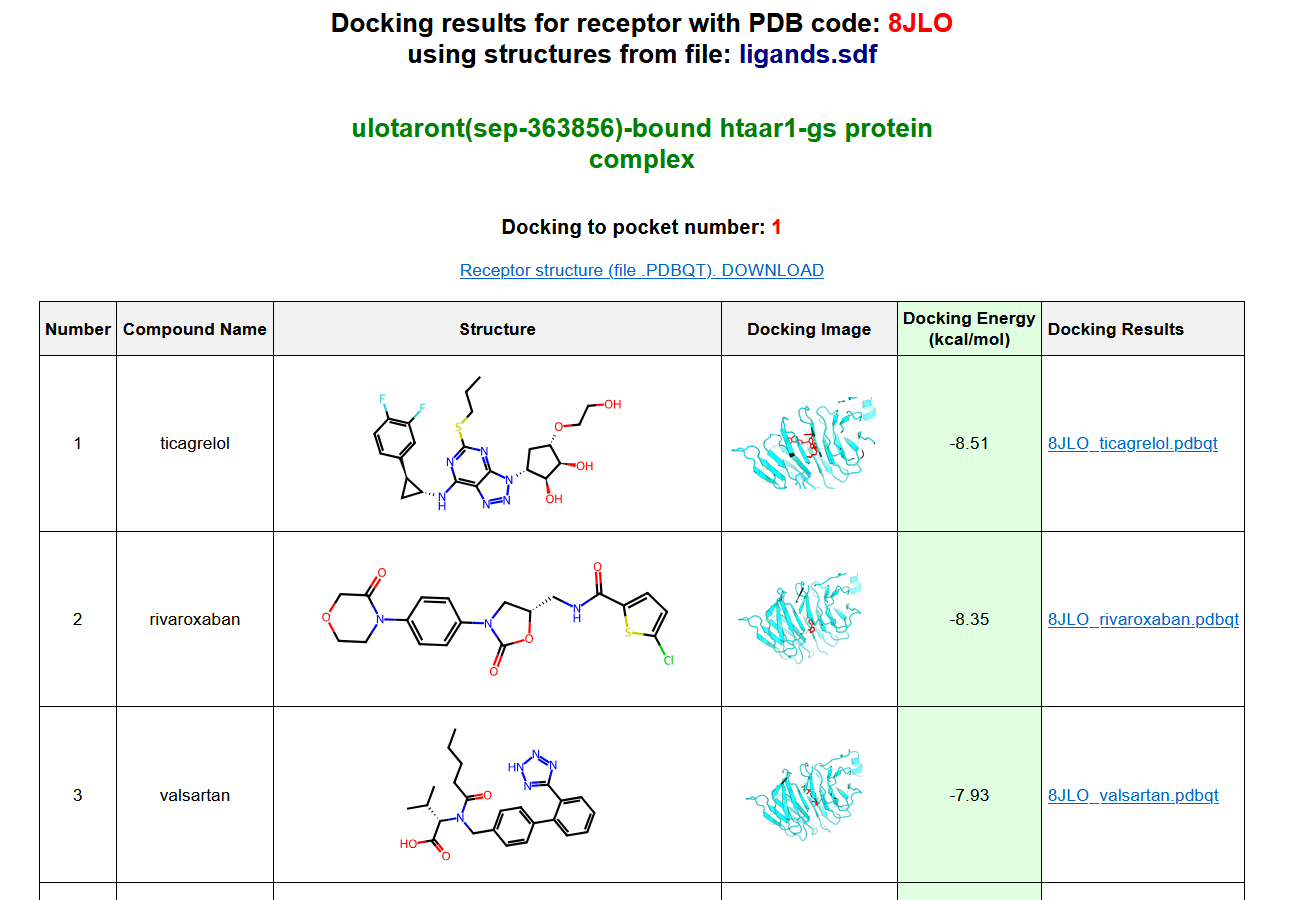
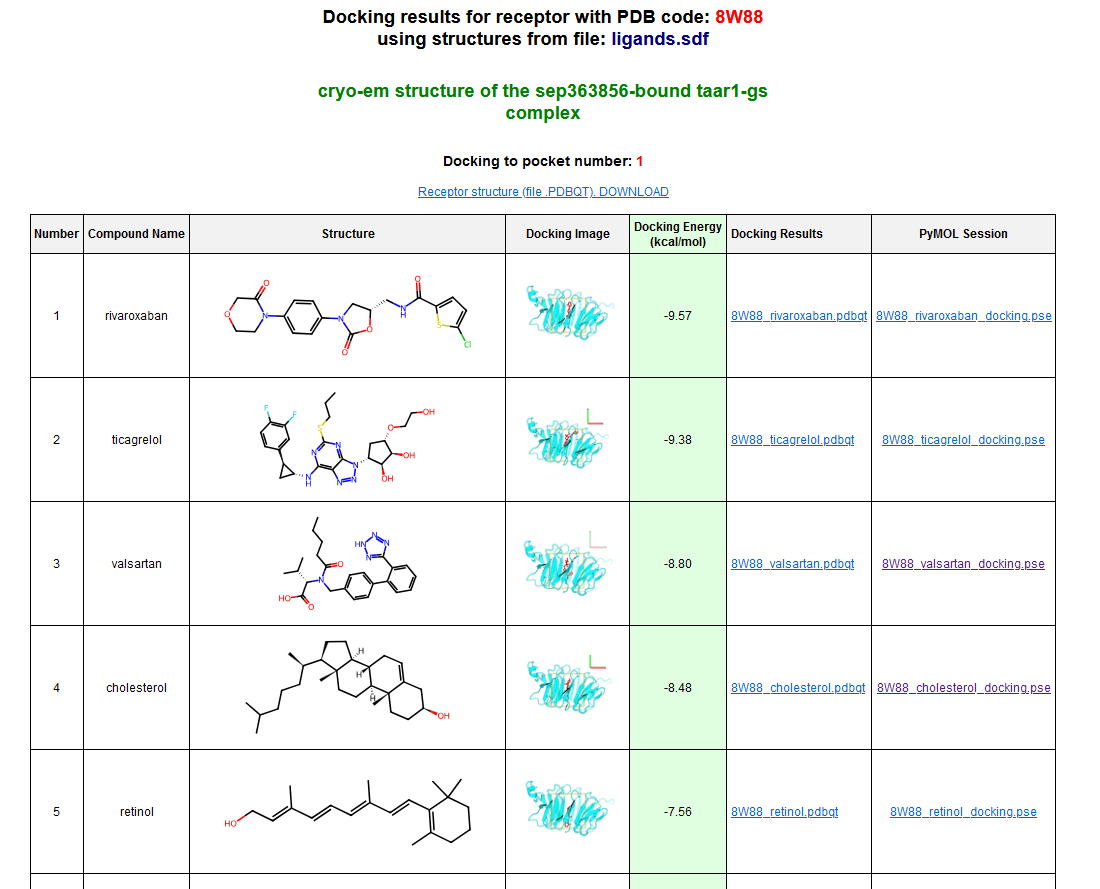
readme update

diff --git a/README.md b/README.md
@@ -3,6 +3,8 @@
 This repository provides an automated docking solution for ligands and receptor proteins using AutoDock Vina and P2Rank. It supports high-throughput docking workflows and integrates seamlessly with SLURM or can be run locally.
 
 ![Docking results visualization](img/results.png "Visualization of docking results")
+![Docking results visualization](img/grid.png "Visualization of docking results")
+![Docking results visualization](img/csv.png "Visualization of docking results")
 
 ## Technologies Used
 - **Python 3.11**: Core scripting language.
@@ -33,7 +35,7 @@ The `init_docking.py` script automates the process of docking multiple ligands t
 - The script accepts the following arguments:
   - `--pdb_ids`: A CSV file located in the `./receptors` directory, containing the PDB IDs of receptor proteins. Each ID corresponds to a unique protein structure available in the Protein Data Bank (PDB).
   - `--ligands`: A ligand file located in the `./ligands` directory. Supported formats include **SDF** and **MOL2** files, allowing flexibility in ligand input.
-  - Optional parameters like `--tol`, `--pckt`, `--exhaust`, and `--energy_range` define the docking box dimensions, pocket selection, search thoroughness, and energy range for pose scoring.
+  - Optional parameters like `--tol_x`, `--tol_y`, `--tol_z`, `--pckt`, `--exhaust`, and `--energy_range` define the docking box dimensions, pocket selection, search thoroughness, and energy range for pose scoring.
 
 - **Automatic Ligand Naming**:
   - In cases where ligands in the input files lack explicit names, the script assigns them generic names in the format `ligand_001`, `ligand_002`, etc., ensuring consistent and organized output.
@@ -62,7 +64,7 @@ The `init_docking.py` script automates the process of docking multiple ligands t
   - The predictions are saved in a folder named `01_p2rank_output` within the receptor's directory.
   - A CSV file (`<PDB_ID>_predictions.csv`) lists each pocket's coordinates, size, and scores.
 
-- The selected pocket (based on the `--pckt` argument) is used to define the docking box dimensions. This includes the center coordinates (`center_x`, `center_y`, `center_z`) and sizes (`size_x`, `size_y`, `size_z`) with an optional tolerance (`--tol`).
+- The selected pocket (based on the `--pckt` argument) is used to define the docking box dimensions. This includes the center coordinates (`center_x`, `center_y`, `center_z`) and sizes (`size_x`, `size_y`, `size_z`) with optional tolerances (`--tol_x`, `--tol_y`, `--tol_z`) for each axis.
 
 ---
 
@@ -94,7 +96,10 @@ The `init_docking.py` script automates the process of docking multiple ligands t
 
 ### **6. Visualization and Results Generation**
 - **Visualizations**:
-  - PyMOL is used to generate visualizations of the best-docked ligand poses superimposed on the receptor structure. The images are saved as `.png` files.
+  - PyMOL is used to generate visualizations of the best-docked ligand poses superimposed on the receptor structure.
+    - The visualizations now include the docking grid (box) and XYZ axes for better spatial orientation.
+    - Both high-resolution images (`.png`) and PyMOL session files (`.pse`) are saved for each docking result.
+    - The PyMOL session files include the docking grid and XYZ axes, allowing users to explore the docking results interactively within PyMOL.
 
 - **HTML and CSV Reports**:
   - **HTML Report**:
@@ -102,7 +107,8 @@ The `init_docking.py` script automates the process of docking multiple ligands t
       - Key docking metrics (binding energies, pocket scores).
       - Links to output files (e.g., `.pdbqt` and `.txt`).
       - 2D and 3D visualizations of ligand-receptor complexes.
-  
+      - **New**: An additional column with links to the PyMOL session files (`.pse`), enabling users to open and manipulate the docking results directly in PyMOL.
+
   - **CSV Summary**:
     - In addition to the HTML report, a CSV summary file is generated containing:
       - **Name**: Ligand name.
@@ -124,15 +130,16 @@ The `init_docking.py` script automates the process of docking multiple ligands t
     - `02_ligands_results/`:
       - `<ligand_name>.pdbqt`: Prepared ligand.
       - `<ligand_name>.svg`: 2D ligand structure images.
+      - `<PDB_ID>_<ligand_name>_docking.pse`: PyMOL session files including the docking grid and XYZ axes.
     - `03_ligands_PDBQT/`:
       - All docked ligand `.pdbqt` files copied here for easy access.
 
   - **Visualizations**:
-    - `<PDB_ID>_<ligand_name>_docking.png`: 3D visualizations of docked complexes.
+    - `<PDB_ID>_<ligand_name>_docking.png`: High-resolution 3D visualizations of docked complexes.
 
   - **Reports**:
-    - `results_summary.html`: Interactive HTML report summarizing docking results.
-    - `results_summary.csv`: CSV file containing ligand name, affinity, and SMILES.
+    - `<PDB_ID>_results.html`: Interactive HTML report summarizing docking results, including links to PyMOL session files.
+    - `<PDB_ID>_results_in_CSV.csv`: CSV file containing ligand name, affinity, and SMILES.
 
   - **P2Rank Predictions**:
     - `01_p2rank_output/<PDB_ID>_predictions.csv`: Binding site information.
@@ -187,12 +194,14 @@ Ensure the following tools are available in their respective paths:
     ```
 2. **Run the Python Script**:
     ```bash
-    python3 init_docking.py --pdb_ids receptors.csv --ligands ligand_file.sdf
+    python3 init_docking.py --pdb_ids receptors.csv --ligands ligand_file.sdf --tol_x 5 --tol_y 5 --tol_z 5
     ```
    - To use a MOL2 file:
     ```bash
-    python3 init_docking.py --pdb_ids receptors.csv --ligands ligand_file.mol2
+    python3 init_docking.py --pdb_ids receptors.csv --ligands ligand_file.mol2 --tol_x 5 --tol_y 5 --tol_z 5
     ```
+
+- **Note**: The `--tol_x`, `--tol_y`, and `--tol_z` arguments allow independent control over the expansion of the docking box along the X, Y, and Z axes, respectively.
 
 ## SLURM Configuration
 The repository includes a sample SLURM script (`start_docking.sh`) optimized for the docking pipeline. Key configurations include:
@@ -202,7 +211,7 @@ The repository includes a sample SLURM script (`start_docking.sh`) optimized for
 ## Input Parameters
 - `--pdb_ids`: CSV file with receptor PDB codes.
 - `--ligands`: SDF or MOL2 file containing ligands.
-- `--tol`: Docking box tolerance (Å, default: 0).
+- `--tol_x`, `--tol_y`, `--tol_z`: Docking box tolerances in Ångströms to expand the docking pocket dimensions along the X, Y, and Z axes respectively (default: 0 for each).
 - `--pckt`: Pocket number from P2Rank predictions (default: 1).
 - `--exhaust`: Docking thoroughness (default: 20).
 - `--energy_range`: Energy range for docking poses (default: 2 kcal/mol).
@@ -212,19 +221,23 @@ The repository includes a sample SLURM script (`start_docking.sh`) optimized for
    - `02_ligands_results/`:
      - `<ligand_name>.pdbqt`: Prepared ligand.
      - `<ligand_name>.svg`: 2D ligand structure.
+     - `<PDB_ID>_<ligand_name>_docking.pse`: PyMOL session files including the docking grid and XYZ axes.
    - `03_ligands_PDBQT/`:
      - All docked ligand `.pdbqt` files copied here.
    
 2. **Reports**:
-   - `results_summary.html`: Summarized docking results with interactive visualizations.
-   - `results_summary.csv`: CSV file containing ligand name, affinity, and SMILES.
+   - `<PDB_ID>_results.html`: Summarized docking results with interactive visualizations and links to PyMOL session files.
+   - `<PDB_ID>_results_in_CSV.csv`: CSV file containing ligand name, affinity, and SMILES.
 
 3. **Visualizations**:
-   - `<PDB_ID>_<ligand_name>_docking.png`: 3D visualizations of docked complexes.
+   - `<PDB_ID>_<ligand_name>_docking.png`: High-resolution 3D visualizations of docked complexes.
 
 ## Notes
 - The system works best with SLURM for distributed execution but can run locally.
 - Ensure all dependencies are correctly installed and configured.
+- The visualizations now include the docking grid and XYZ axes for improved spatial orientation.
+- PyMOL session files are provided for interactive exploration of docking results.
+- The single `--tol` argument has been replaced with three independent arguments `--tol_x`, `--tol_y`, and `--tol_z` for finer control over the docking box dimensions.
 - Follow the user manual (`User_Guide_Docking_System_ENG.html`) for detailed steps.
 
 For more details, refer to the [Installation Guide](manuals/Installation_Guide_ENG.html).
@@ -240,3 +253,5 @@ For more details, refer to the [Installation Guide](manuals/Installation_Guide_E
 ---
 
 *This README was generated and updated with the assistance of ChatGPT.*
+
+---
